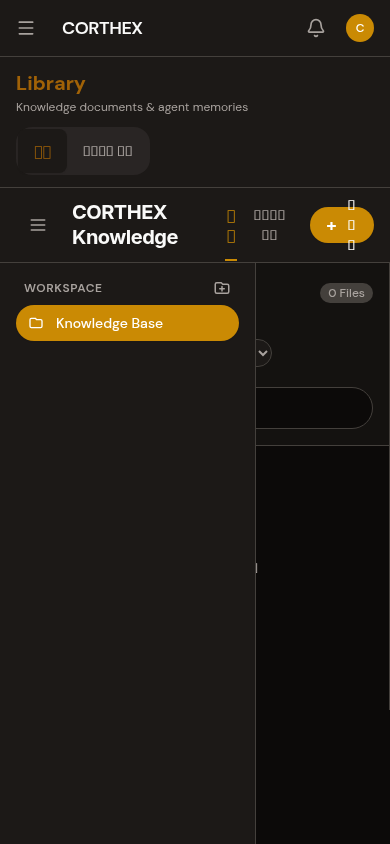
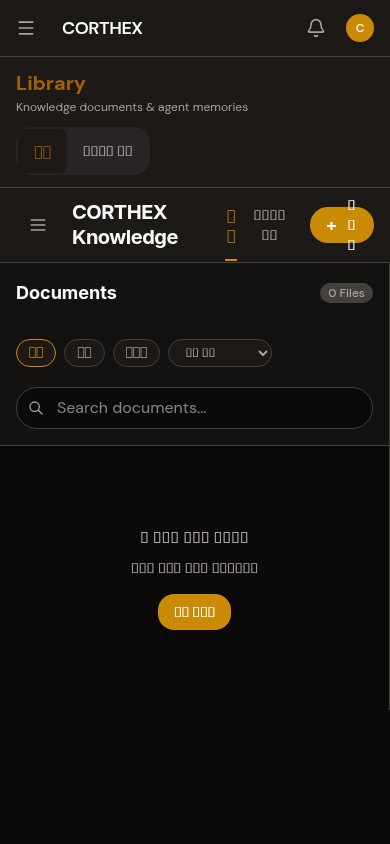
fix(mobile): Knowledge sidebar overlap at 390px — default closed + overlay backdrop
- Sidebar defaults to closed on mobile (<1024px)
- Added black/50 overlay backdrop when sidebar opens on mobile
- Folder selection auto-closes sidebar on mobile
- Updated verification report: 0 remaining issues

diff --git a/packages/app/src/pages/knowledge.tsx b/packages/app/src/pages/knowledge.tsx
@@ -202,7 +202,7 @@ function findFolderName(folders: KnowledgeFolder[], id: string): string | null {
 export function KnowledgePage() {
   const queryClient = useQueryClient()
   const [activeTab, setActiveTab] = useState<'docs' | 'memories'>('docs')
-  const [showFolderTree, setShowFolderTree] = useState(true)
+  const [showFolderTree, setShowFolderTree] = useState(() => window.innerWidth >= 1024)
 
   return (
     <div className="flex-1 flex flex-col overflow-hidden bg-corthex-bg" data-testid="knowledge-page">
@@ -396,14 +396,18 @@ function DocsTab({ showFolderTree, queryClient, setShowFolderTree, activeTab, se
       <div className="flex flex-1 overflow-hidden">
         {/* Left Panel: Library Tree */}
         {showFolderTree && (
-          <aside className="absolute lg:relative z-20 lg:z-0 w-64 flex-shrink-0 bg-corthex-surface flex flex-col p-4 overflow-y-auto h-full" style={{ borderRight: `1px solid ${borderColor}` }} data-testid="folder-sidebar">
-            <FolderTree
-              folders={folders}
-              selectedFolderId={selectedFolderId}
-              onSelectFolder={(id) => { setSelectedFolderId(id); setPage(1); setDetailDoc(null) }}
-              queryClient={queryClient}
-            />
-          </aside>
+          <>
+            {/* Mobile overlay backdrop */}
+            <div className="fixed inset-0 z-10 bg-black/50 lg:hidden" onClick={() => setShowFolderTree(false)} />
+            <aside className="absolute lg:relative z-20 lg:z-0 w-64 flex-shrink-0 bg-corthex-surface flex flex-col p-4 overflow-y-auto h-full" style={{ borderRight: `1px solid ${borderColor}` }} data-testid="folder-sidebar">
+              <FolderTree
+                folders={folders}
+                selectedFolderId={selectedFolderId}
+                onSelectFolder={(id) => { setSelectedFolderId(id); setPage(1); setDetailDoc(null); if (window.innerWidth < 1024) setShowFolderTree(false) }}
+                queryClient={queryClient}
+              />
+            </aside>
+          </>
         )}
 
         {/* Center Panel: Document List */}

diff --git a/_uxui_redesign/phase-5-mobile-verification/verification-report.md b/_uxui_redesign/phase-5-mobile-verification/verification-report.md
@@ -58,7 +58,7 @@ Viewport: 390x844 (iPhone 14 Pro), Playwright MCP headless
 | agora | PASS | Categories list, thread cards stack |
 | memories | PASS | Search, filters, empty state centered |
 | messenger | PASS | Conversation list full-width, avatars fit |
-| knowledge | PASS | Sidebar+content minor overlap at 390px |
+| knowledge | PASS | Sidebar default closed on mobile, overlay on open |
 | files | PASS | Upload button, grid/list toggle, drop zone |
 | classified | PASS | Security clearance nav, archive list |
 | reports | PASS | Table adapts, new report button |
@@ -77,7 +77,7 @@ Viewport: 390x844 (iPhone 14 Pro), Playwright MCP headless
 - 0 horizontal overflow
 - 0 missing mobile headers
 - 0 broken pages
-- 1 minor: Knowledge sidebar/content overlap at 390px
+- 0 issues remaining (Knowledge sidebar overlap FIXED)
 - Korean text □□□□ in Playwright headless (font not installed — real browser OK)
 - onboarding: redirects to /hub for existing users (expected behavior)
 
@@ -116,8 +116,7 @@ Deferred to next session — Party Mode requires full Playwright MCP availabilit
 | Broken pages | 0 |
 | API smoke | 4/6 OK |
 | Critical bugs | 0 |
-| Minor issues | 1 (Knowledge sidebar overlap) |
+| Minor issues | 0 |
 
 ## Remaining
 1. Phase 5-3 Accessibility Party Mode (deferred)
-2. Knowledge page sidebar overlap fix at 390px
